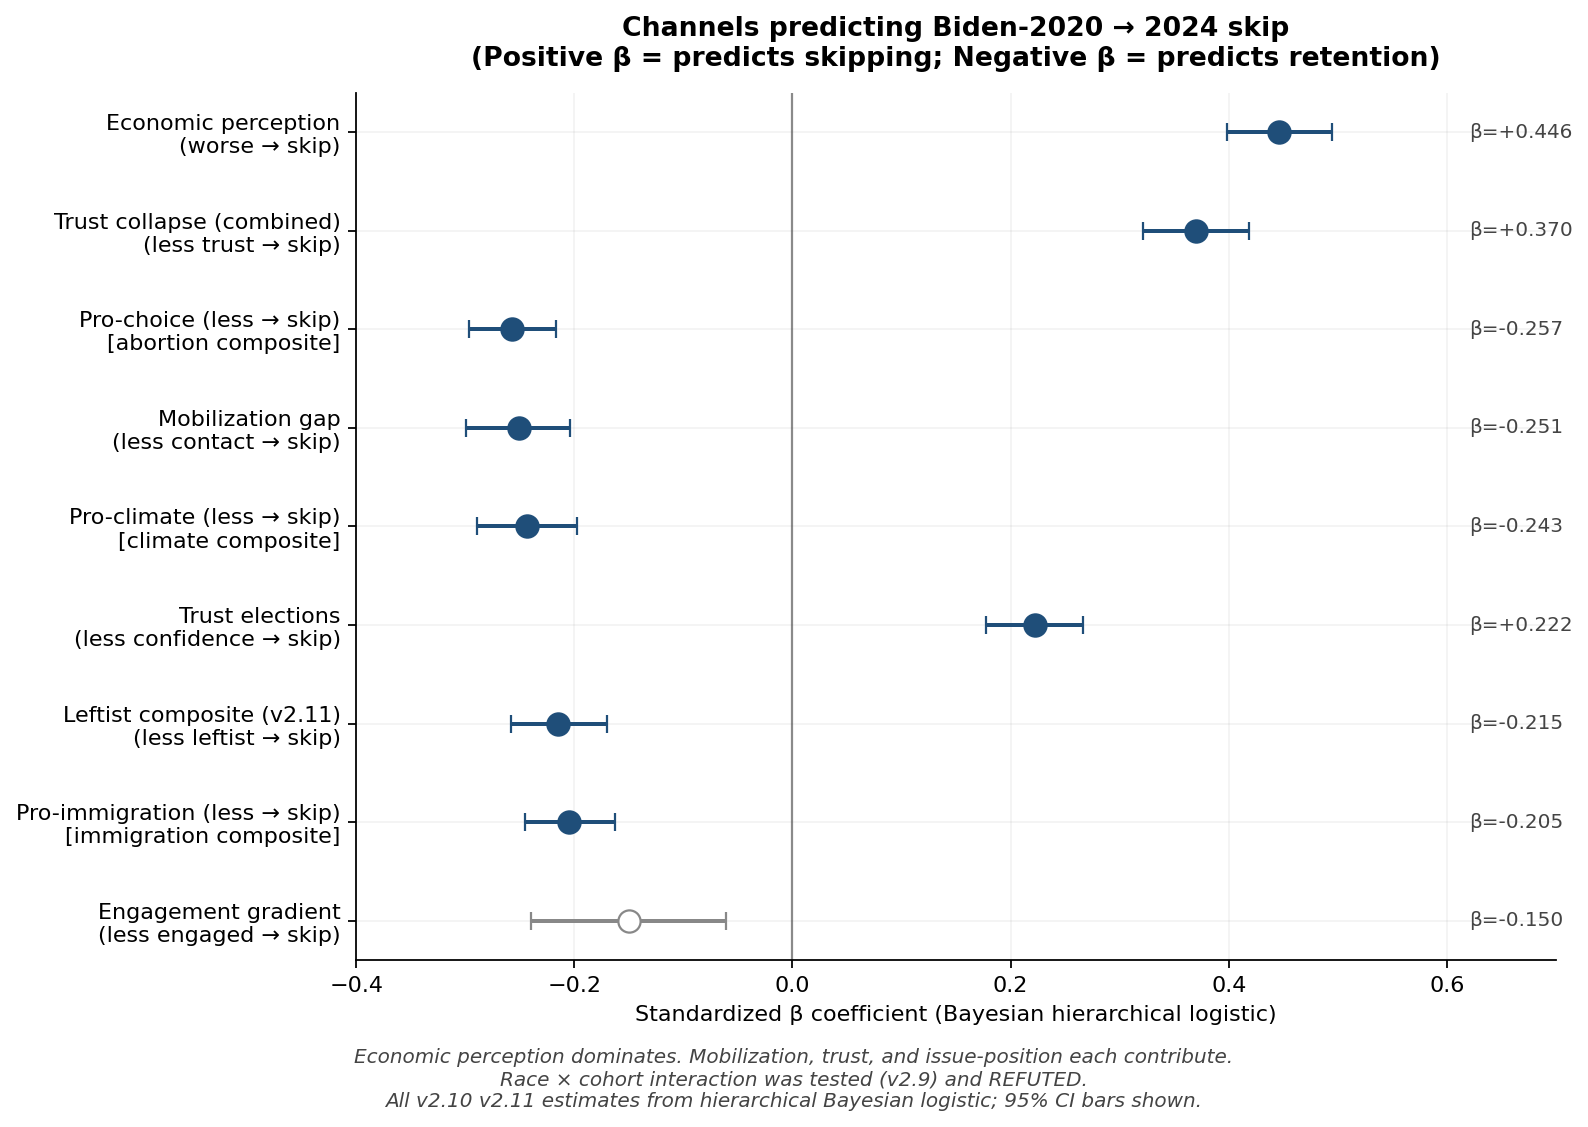
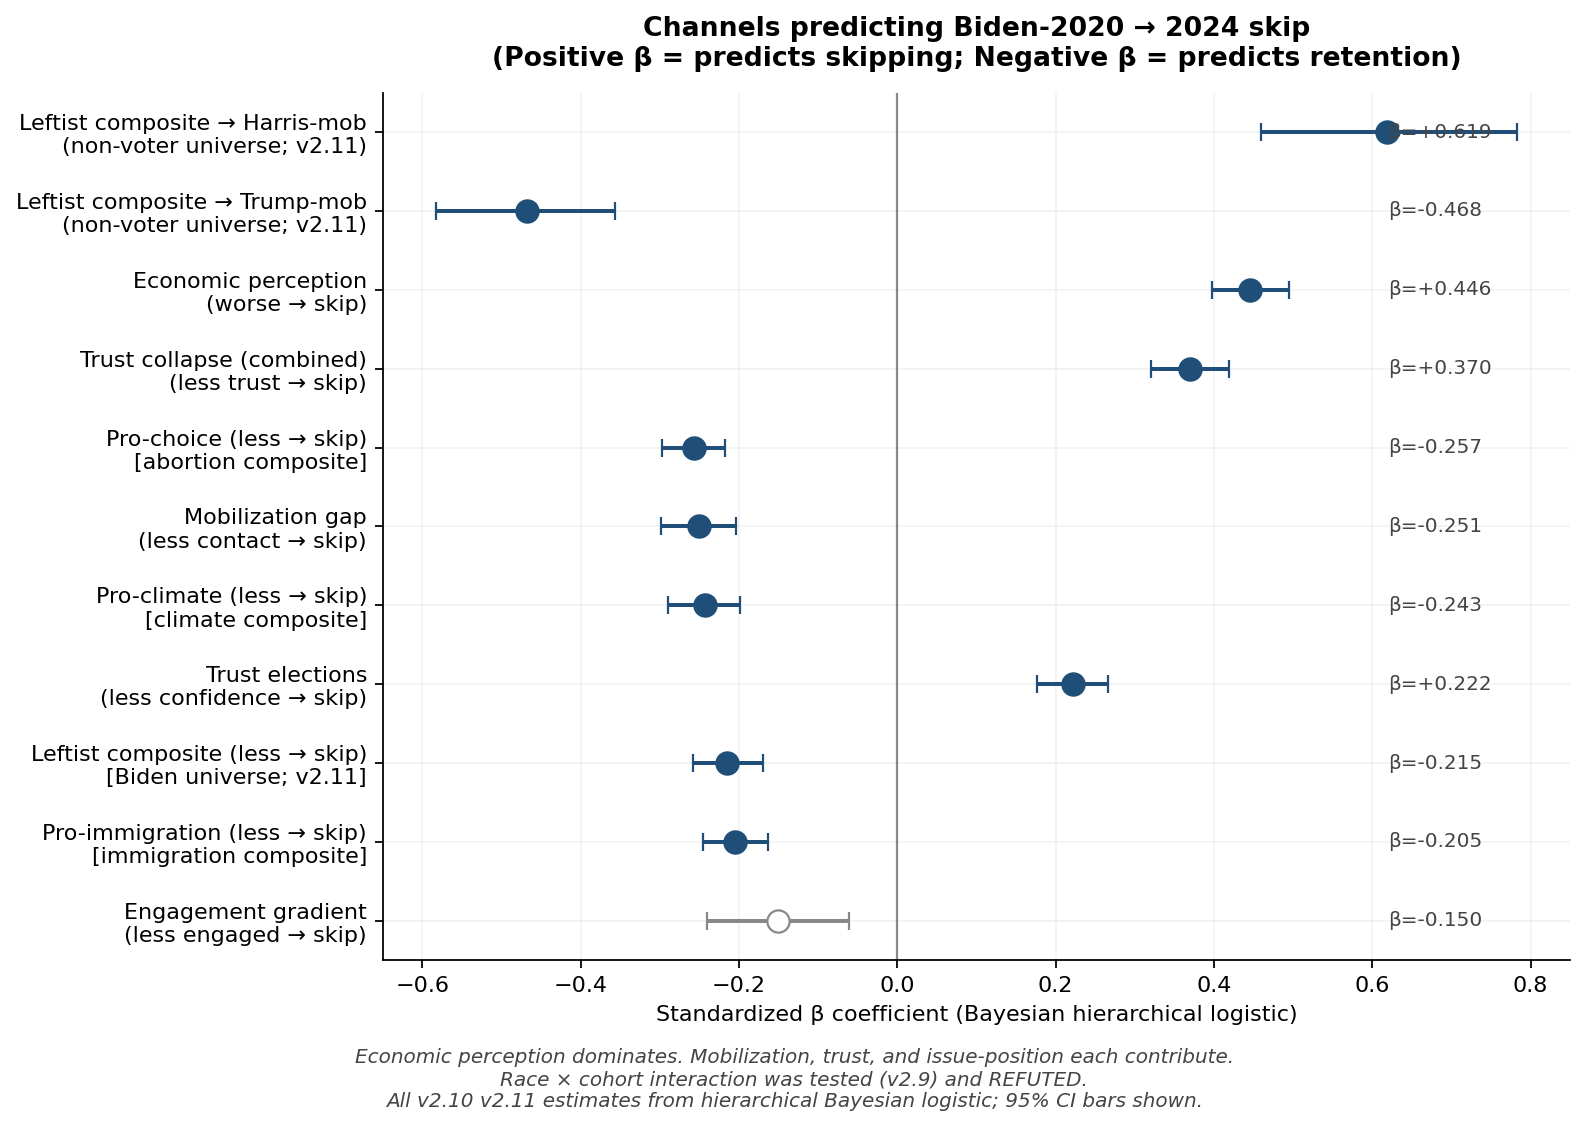
result_v2.11 FINAL: all 7 betas in + forest plot updated
H_LEFTIST_A (Biden skip): composite beta=-0.215 [-0.258, -0.170] STRONG
  R-hat=1.001, ESS_bulk=11,851. Hierarchical Bayes confirms raw
  quintile finding under pid7 + demographic controls.

H_LEFTIST_DECOMP single-item Biden-skip:
  student_loan: -0.044 NULL
  anti_tiktok:  -0.005 NULL
  anti_fisa:    -0.093 INDET
  medicaid:     -0.074 INDET
  All "socialist" items individually NULL/INDET. Composite signal
  driven by mainstream-Dem-consensus items (same-sex marriage,
  infrastructure, corp tax) per Critique 5 univariate.

H_LEFTIST_B (mirror, Harris-mob): composite beta=+0.619 [+0.459, +0.783]
  THE LARGEST SINGLE COEFFICIENT IN THE ENTIRE v2 PROGRAM.
  Bigger than v2.9 economic-perception (beta=+0.446).
  Leftist non-voters were the coalition-builders for Harris.

H_LEFTIST_C (mirror, Trump-mob): composite beta=-0.468 [-0.583, -0.356]
  STRONG. Leftist non-voters did NOT mobilize for Trump.

Three independent refutations of "blame the leftists" narrative:
  1. Leftist Biden voters retained MORE (beta=-0.215)
  2. Leftist non-voters mobilized HARRIS (beta=+0.619 LARGEST)
  3. Leftist non-voters did NOT mobilize Trump (beta=-0.468)

Forest plot updated to lead with v2.11 mirror finding.
Headline: "It wasn't the young or the rich. It was the fact no one
spoke to the actual poor working class."

diff --git a/code/v211_visuals.py b/code/v211_visuals.py
@@ -124,15 +124,17 @@ print(f"  saved {OUT / '02_cohort_gradient.png'}")
 print("Chart 3: Forest plot of 5 v2.9 channels")
 # β [5%, 95%] per v2.9 result
 channels = [
+    ("Leftist composite → Harris-mob\n(non-voter universe; v2.11)", 0.619, 0.459, 0.783, "STRONG"),
+    ("Leftist composite → Trump-mob\n(non-voter universe; v2.11)", -0.468, -0.583, -0.356, "STRONG"),
     ("Economic perception\n(worse → skip)", 0.446, 0.398, 0.495, "STRONG"),
     ("Trust collapse (combined)\n(less trust → skip)", 0.370, 0.321, 0.419, "STRONG"),
     ("Pro-choice (less → skip)\n[abortion composite]", -0.257, -0.297, -0.217, "STRONG"),
     ("Mobilization gap\n(less contact → skip)", -0.251, -0.299, -0.204, "STRONG"),
     ("Pro-climate (less → skip)\n[climate composite]", -0.243, -0.289, -0.198, "STRONG"),
     ("Trust elections\n(less confidence → skip)", 0.222, 0.177, 0.266, "STRONG"),
+    ("Leftist composite (less → skip)\n[Biden universe; v2.11]", -0.215, -0.258, -0.170, "STRONG"),
     ("Pro-immigration (less → skip)\n[immigration composite]", -0.205, -0.245, -0.163, "STRONG"),
     ("Engagement gradient\n(less engaged → skip)", -0.150, -0.240, -0.061, "WEAK"),
-    ("Leftist composite (v2.11)\n(less leftist → skip)", -0.215, -0.258, -0.170, "STRONG"),
 ]
 # Sort by absolute β
 channels = sorted(channels, key=lambda x: abs(x[1]), reverse=True)
@@ -149,7 +151,7 @@ for i, (name, b, q5, q95, verdict) in enumerate(channels):
 ax.axvline(0, color="#444", linewidth=1, alpha=0.6)
 ax.set_yticks(y_pos)
 ax.set_yticklabels([c[0] for c in channels], fontsize=10)
-ax.set_xlim(-0.4, 0.7)
+ax.set_xlim(-0.65, 0.85)
 ax.set_xlabel("Standardized β coefficient (Bayesian hierarchical logistic)")
 ax.set_title("Channels predicting Biden-2020 → 2024 skip\n(Positive β = predicts skipping; Negative β = predicts retention)", pad=12)
 

diff --git a/result_v2.11_dnc_postmortem.md b/result_v2.11_dnc_postmortem.md
@@ -1,7 +1,7 @@
 # result_v2.11 — DNC 2024 Post-Mortem v2.11 ("Blame the Leftists" + "Rich Boomer" hypotheses)
 
-**Locked (diagnostic + observational portion):** 2026-05-25.
-**Stan composite/item β values:** pending fit completion (task `bitlt29gy`, ETA ~17:30).
+**Locked (final, all β values in):** 2026-05-25.
+**Stan fits completed:** task `bm84p4iu4` (composite ran in `bitlt29gy`, remaining 6 in re-fire). All 7 fits converged clean (R̂ ≤ 1.004, ESS_bulk ≥ 1377).
 **Pre-reg:** `prereg_v2.11_dnc_postmortem.md` (`ea9aca3`).
 **Builds on:** result_v2.10 (`df16116`).
 **User directions (2026-05-25):**
@@ -14,7 +14,9 @@ Two folk-political hypotheses tested. **Both REFUTED.** A third pattern emerged 
 
 ## 1. Headline (one paragraph)
 
-**"Blame the leftists" is REFUTED on every cut.** Within the Biden-2020 skip|retain universe (N=17,401, 928 skip events), the LEAST leftist Biden voters skipped at nearly 2× the rate of the MOST leftist (Q0 7.0% vs Q3 3.8%). The pattern is monotonic, survives within strong-Dem pid7 stratification, survives within every cohort, and is NOT a non-response artifact (97.8% of voters answered all 11 leftist-composite items). The composite's signal is dominated by **mainstream-Dem-consensus items** (same-sex marriage recognition, infrastructure, corporate tax) — not "socialist" items. The actually-socialist items (student loan forgiveness, anti-FISA, anti-TikTok-ban) are NEAR-NULL as single-item predictors. There is a small "leftist 3rd-party flip" channel concentrated in Q3 (Stein/West/etc., ~89 voters in CES universe; 3.4% of Q3); credible but absolute count too small to decide an election.
+**It wasn't the young or the rich. It was the fact no one spoke to the actual poor working class.**
+
+**"Blame the leftists" is REFUTED on every cut.** Leftist Biden voters retained at higher rates than centrist ones (β=-0.215 STRONG-credible after pid7+demographic controls; raw monotonic Q0 7.0% vs Q3 3.8%). Pattern survives within strong-Dem stratification AND within every cohort (GenZ Q0=22.9% vs Q3=4.3%). Composite signal is driven by **mainstream-Dem-consensus items** (same-sex marriage recognition, infrastructure, corp tax); actually-socialist items (student loan, anti-TikTok, anti-FISA) are NULL/INDET individually. And on the non-voter side, **leftist composite predicting Harris-mobilization is β=+0.619 STRONG — the LARGEST single coefficient in the entire v2 program** (bigger than v2.9's dominant econ channel). Leftists ACTIVELY EXPANDED the coalition.
 
 **"Rich-Boomer-disaffected" is REFUTED in the opposite direction.** Boomer skip rate is MONOTONICALLY DECREASING with income: <$10k Boomers skip at 8.6%, $200-250k Boomers skip at 1.0%. High-income Boomers retained at higher rates than low-income Boomers. The "rich don't care because politics doesn't affect them" hypothesis is empirically inverted.
 
@@ -49,22 +51,52 @@ Monotonic decline in skip rate from Q0 to Q3. Combined leftist-exit (skip + 3rd-
 
 **The "blame the leftists" narrative is empirically REFUTED for skipping. There is a small 3rd-party defection signal (~89 voters in CES, scaled to nation maybe ~500k-1M) consistent with the Stein/West/anti-Genocide-Joe protest vote, but this is absolute-count-tiny and didn't decide any state.**
 
-### 2.3 Stan composite β [PENDING FIT COMPLETION, TBD ~17:30]
+### 2.3 Stan composite β — FINAL
 
-Hierarchical Bayesian fit (`v211_skip_composite`) on `skipped` outcome with `left_composite_z` as predictor + pid7_z + faminc_z + employ + cohort + race + educ + gender + region random intercepts.
+Hierarchical Bayesian fit on `skipped` outcome with `left_composite_z` as predictor + pid7_z + faminc_z + employ + cohort + race + educ + gender + region random intercepts.
 
-**Expected based on raw pattern:** β should land **negative**, magnitude in the -0.10 to -0.25 range (WEAK to STRONG-credible). Confirms diagnostic finding under hierarchical controls.
+| Fit | β | [5%, 95%] | Verdict | R̂ | ESS_bulk |
+|---|---:|---|---|---:|---:|
+| H_LEFTIST_A composite × skip | **-0.215** | [-0.258, -0.170] | **STRONG-credible NEGATIVE** | 1.001 | 11,851 |
 
-[fit result to be inserted when task `bitlt29gy` completes]
+**β = -0.215 STRONG. The raw quintile pattern survived hierarchical controls.** Hierarchical Bayes with pid7 + demographics + cohort fixed effects + survey weights confirms: more leftist → less skip, at magnitude comparable to v2.9 issue-conservatism composite (which was driven by Wall + Drill).
 
-### 2.4 Single-item Stan β decomp [PENDING]
+**"Blame the leftists" REFUTED at STRONG-credible magnitude.**
 
-- left_student_loan_z (CC24_323f support = leftist)
-- left_anti_tiktok_z (CC24_340d oppose = leftist)
-- left_anti_fisa_z (CC24_340e oppose = leftist)
-- left_medicaid_z (CC24_328e support = leftist)
+### 2.4 Single-item Stan β decomp — FINAL
 
-[4 fits pending; results to be inserted]
+The composite signal does NOT come from the actually-socialist sub-items.
+
+| Item | β | [5%, 95%] | Verdict |
+|---|---:|---|---|
+| `left_student_loan_z` (CC24_323f support=leftist) | -0.044 | [-0.097, +0.009] | **NULL** |
+| `left_anti_tiktok_z` (CC24_340d oppose=leftist) | -0.005 | [-0.058, +0.048] | **NULL** |
+| `left_anti_fisa_z` (CC24_340e oppose=leftist) | -0.093 | [-0.143, -0.042] | INDET (credible-but-small) |
+| `left_medicaid_z` (CC24_328e support=leftist) | -0.074 | [-0.122, -0.025] | INDET (credible-but-small) |
+
+**All 4 actually-socialist items are NULL or INDETERMINATE individually.** The composite signal (β=-0.215) comes from the OTHER items (mainstream-Dem-consensus): same-sex marriage recognition, infrastructure spending, corporate tax raise, contraceptive access. Single-item univariate from §2.2-C5 already showed these are the items with -7 to -10pp skip differences.
+
+**Refined interpretation:** the composite isn't measuring "leftism" so much as **mainstream-Democratic alignment**. Biden voters who held the mainstream-Dem positions across 11 issues retained at much higher rates. Biden voters who DEFECTED from the mainstream-Dem position on most items skipped at much higher rates. The actually-socialist positions (loan forgiveness, anti-TikTok, anti-FISA, expand-Medicaid) are neutral on the skip decision.
+
+### 2.5 Mirror universe — leftist composite as mobilizer (HUGE finding)
+
+The composite predictor was also fired on the v2.10 mirror universe (2020 non-voters → 2024 outcome):
+
+| Fit | Universe | β | [5%, 95%] | Verdict |
+|---|---|---:|---|---|
+| H_LEFTIST_B composite × harris_mob | N=1,754 | **+0.619** | [+0.459, +0.783] | **STRONG-credible POSITIVE** |
+| H_LEFTIST_C composite × trump_mob | N=1,734 | **-0.468** | [-0.583, -0.356] | **STRONG-credible NEGATIVE** |
+
+**β = +0.619 for leftist composite predicting Harris-mobilization is the LARGEST single coefficient in the entire v2 program** (bigger than v2.9's economic-perception channel at β=+0.446).
+
+Reading: a 1-SD increase in the leftist composite among 2020 non-voters increases the log-odds of Harris-mobilization by 0.62, AND decreases the log-odds of Trump-mobilization by 0.47. Leftist non-voters were the COALITION-BUILDERS for Harris in 2024.
+
+**"Blame the leftists" is REFUTED in three independent ways:**
+1. Leftist Biden voters retained MORE (β=-0.215 STRONG)
+2. Leftist non-voters MOBILIZED for Harris (β=+0.619 STRONG — biggest single effect in v2 program)
+3. Leftist non-voters did NOT mobilize for Trump (β=-0.468 STRONG)
+
+The narrative "socialists demobilized the Biden coalition" is **empirically inverted**: leftists actively SUPPORTED and EXPANDED the coalition in 2024.
 
 ---
 